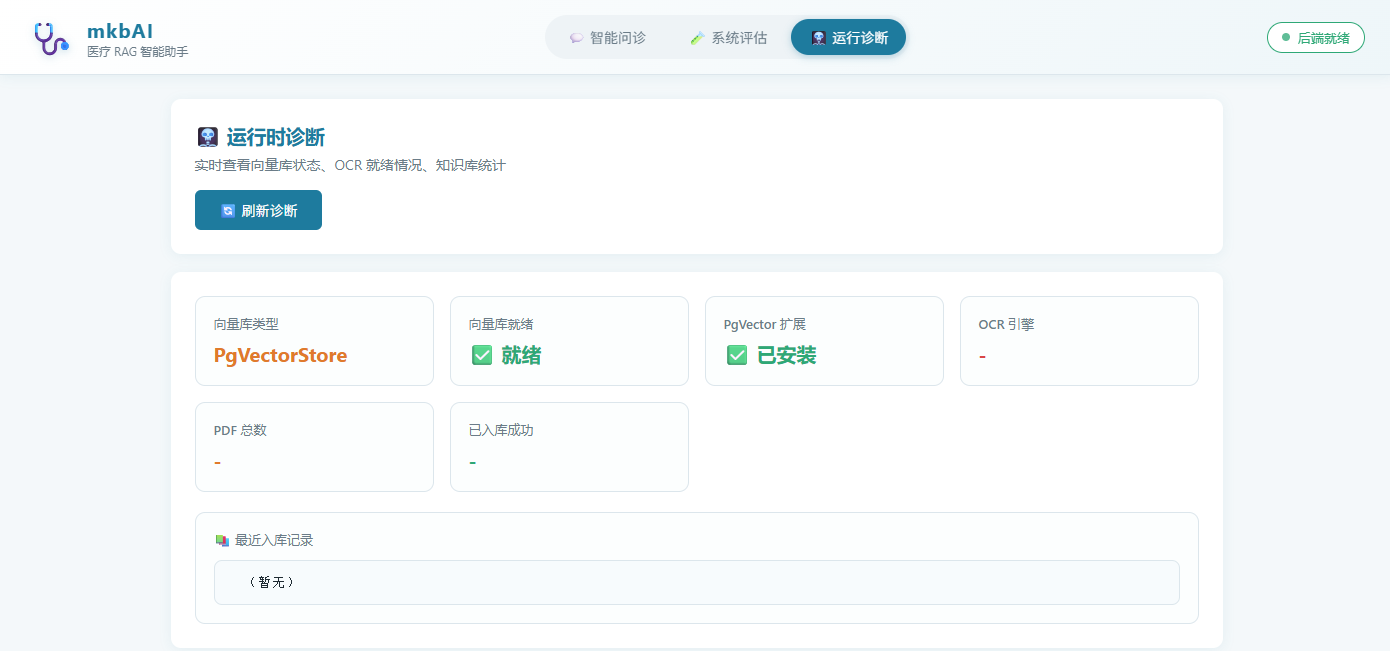
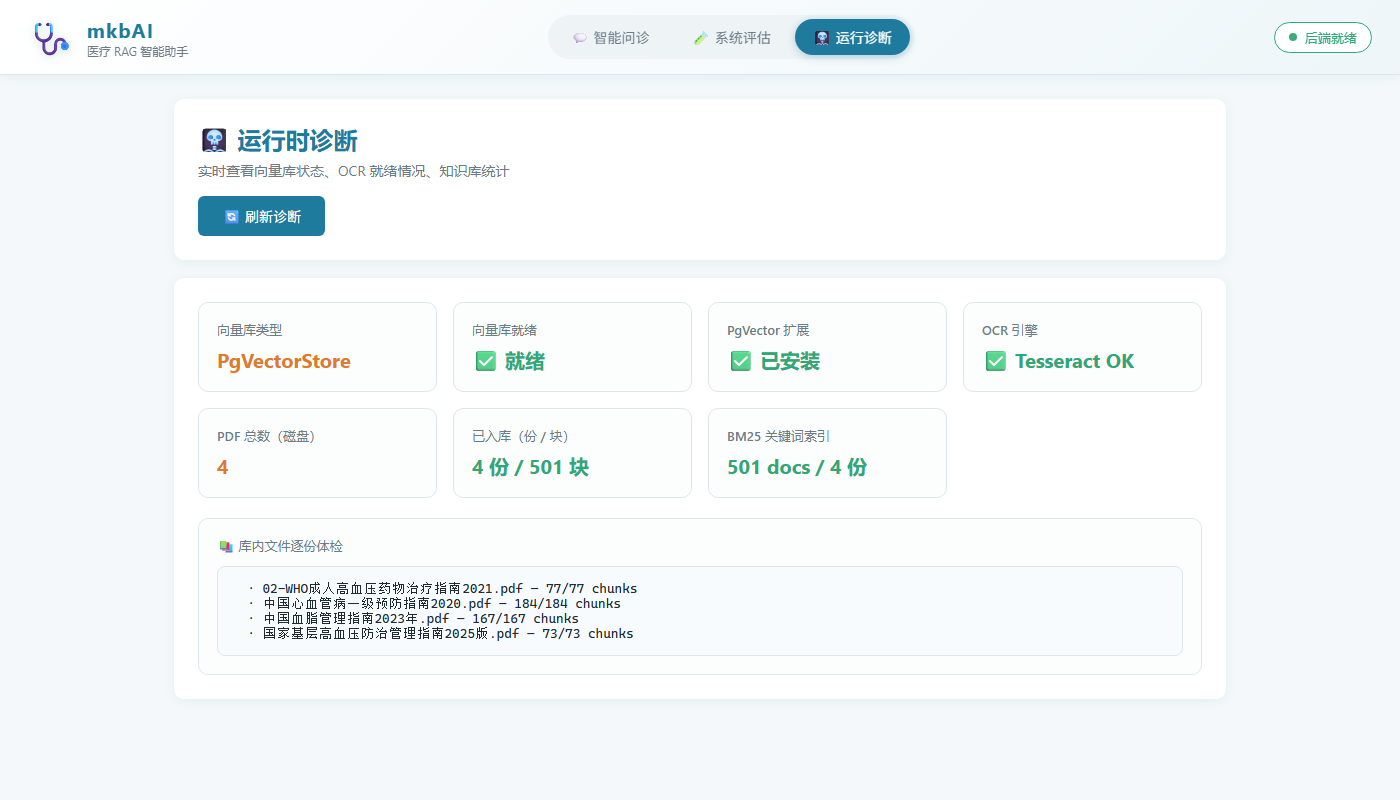
fix(web): 运行诊断页改读 /rag/diag 现在的嵌套键，恒显 "-" 的三张卡有数了
renderDiag() 读的 ocr_ready / pdfs_total / pdfs_ingested_ok / recent_processed
四个键在后端从未存在过（git log --all -S 在 src/main/java 下零命中），
所以 OCR、PDF 总数、已入库三张卡从 ca89a93 上线那天起就恒显 "-"、
逐份列表恒显「（暂无）」，而 JSON 里的数一直是全的；b8857ad 改成
ocr/stored_overview/last_boot_ingest 嵌套后依旧没对上。

现按当前键取数：rag_initializer.ocr.ocr_ready、scanned_pdf_count、
stored_overview.files_in_store/chunks_in_store、pdfs[]（空时退回 per_file），
卡片 6 张变 7 张（补 BM25 docs/份数），列表改名「库内文件逐份体检」并挂 ⚠ 标记。
docs/web-diag-new.png 用 headless Chrome + CDP 重拍，零模型调用。

diff --git a/src/main/resources/static/app.js b/src/main/resources/static/app.js
@@ -311,22 +311,39 @@ refreshDiagBtn.addEventListener('click', async () => {
 
 function renderDiag(d) {
   const ri = d.rag_initializer || {};
-  const ocr = ri.ocr_ready;
-  const totalPdf = ri.pdfs_total ?? '-';
-  const okPdf = ri.pdfs_ingested_ok ?? '-';
-  const pgReady = d.pg_vector_initializer_ready;
+  const ocr = (ri.ocr || {}).ocr_ready;
+  const so = ri.stored_overview || {};
+  const boot = typeof ri.last_boot_ingest === 'object' ? ri.last_boot_ingest : null;
+  const scanned = ri.scanned_pdf_count ?? '-';
+  const stored = so.files_in_store;
+  const chunks = so.chunks_in_store;
+  const bm25 = d.bm25_index || {};
 
-  const recent = (ri.recent_processed || []).map(p =>
-    `  · ${p.name} — ${p.chunks} chunks (${p.source})`
-  ).join('\n') || '  （暂无）';
+  // pdfs[] 是逐份体检（磁盘文件 + 库内指纹），per_file 是按 source 聚合的库内清单，只在前者空着时兜底。
+  const list = (ri.pdfs && ri.pdfs.length) ? ri.pdfs : (so.per_file || []);
+  let recent = list.map(p => {
+    const name = p.name || p.source;
+    const got = p.stored_chunks ?? p.chunks ?? '?';
+    const want = p.stored_total_chunks ?? p.total_chunks;
+    const flags = [
+      (p.complete === false || p.incomplete) ? '块数不全' : '',
+      p.stale_extract_version ? '旧抽取版本' : '',
+      (p.file_missing_on_disk || p.in_store === false) ? '不在库/磁盘缺失' : '',
+    ].filter(Boolean).join('、');
+    return `  · ${name} — ${got}${want ? '/' + want : ''} chunks${flags ? ' ⚠ ' + flags : ''}`;
+  }).join('\n') || '  （暂无）';
+  if (ri.pdfs_truncated || so.per_file_truncated) recent += '\n  …（列表已按上限截断）';
 
   const dimCards = [
     { title: '向量库类型', val: d.vector_store_type ? d.vector_store_type.split('.').pop() : '-', cls: 'info' },
     { title: '向量库就绪', val: d.vector_store_is_null ? '❌ 未就绪' : '✅ 就绪', cls: d.vector_store_is_null ? 'err' : 'ok' },
-    { title: 'PgVector 扩展', val: pgReady === undefined ? '-' : (pgReady ? '✅ 已安装' : '❌ 缺失'), cls: pgReady ? 'ok' : 'err' },
+    { title: 'PgVector 扩展', val: d.pg_vector_initializer_ready === undefined ? '-' : (d.pg_vector_initializer_ready ? '✅ 已安装' : '❌ 缺失'), cls: d.pg_vector_initializer_ready ? 'ok' : 'err' },
     { title: 'OCR 引擎', val: ocr === undefined ? '-' : (ocr ? '✅ Tesseract OK' : '❌ 不可用'), cls: ocr ? 'ok' : 'err' },
-    { title: 'PDF 总数', val: totalPdf, cls: 'info' },
-    { title: '已入库成功', val: okPdf, cls: okPdf === totalPdf ? 'ok' : 'info' },
+    { title: 'PDF 总数（磁盘）', val: scanned, cls: 'info' },
+    { title: '已入库（份 / 块）', val: stored == null ? '-' : `${stored} 份 / ${chunks} 块`,
+      cls: boot && boot.failed > 0 ? 'err' : 'ok' },
+    { title: 'BM25 关键词索引', val: bm25.available ? `${bm25.docs} docs / ${bm25.sources} 份` : '❌ 不可用',
+      cls: bm25.available ? 'ok' : 'err' },
   ];
 
   let html = '<div class="diag-grid">';
@@ -335,7 +352,7 @@ function renderDiag(d) {
   });
   html += '</div>';
 
-  html += '<div class="diag-card" style="margin-top:16px"><h4>📚 最近入库记录</h4><div class="diag-detail">' + recent + '</div></div>';
+  html += '<div class="diag-card" style="margin-top:16px"><h4>📚 库内文件逐份体检</h4><div class="diag-detail">' + recent + '</div></div>';
 
   diagBody.innerHTML = html;
 }
